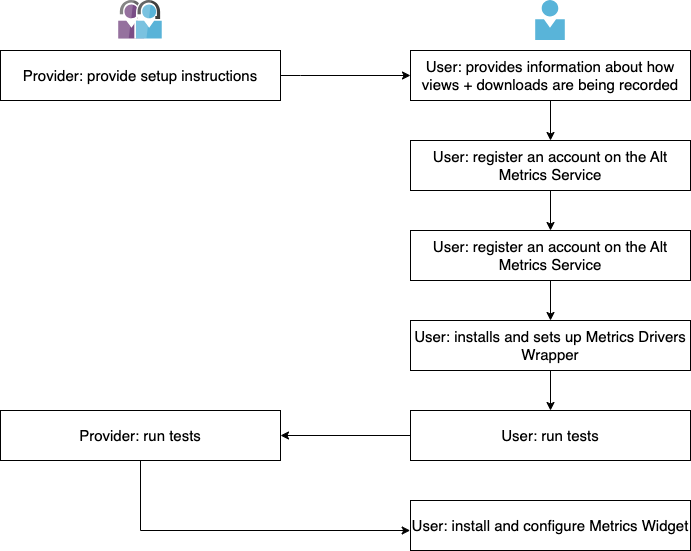
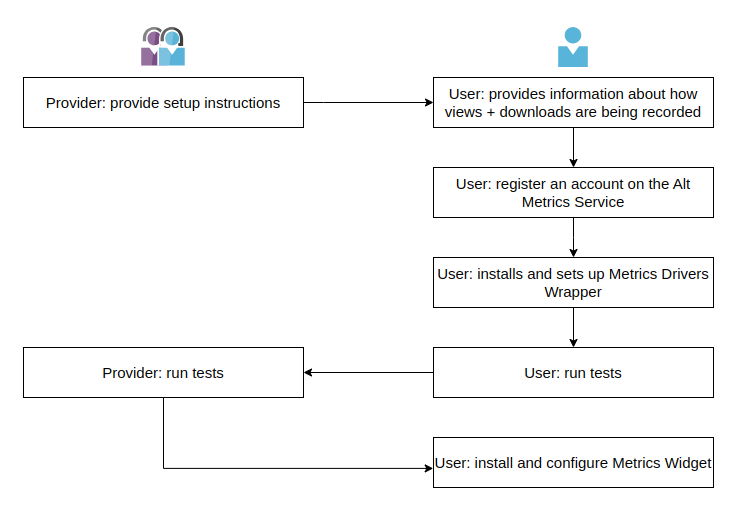
Resolved the emails and the user-onboarding image

diff --git a/site/metrics-docs/metrics-api.en-GB/index.html b/site/metrics-docs/metrics-api.en-GB/index.html
@@ -1175,7 +1175,7 @@
 <td>start_date</td>
 <td>query</td>
 <td>string</td>
-<td>yes</td>
+<td>no</td>
 <td>ISO 8601 format (YYYY-MM-DD) as a starting date to retrieve the events from.</td>
 </tr>
 <tr>
@@ -1183,7 +1183,7 @@
 <td>query</td>
 <td>string</td>
 <td>no</td>
-<td>ISO 8601 format (YYYY-MM-DD) as a end date to retrieve the events from.</td>
+<td>ISO 8601 format (YYYY-MM-DD) as a end date to retrieve the events until.</td>
 </tr>
 </tbody>
 </table>
@@ -1428,13 +1428,13 @@
 <li>Body Parameters</li>
 </ul>
 <pre><code class="language-json">{
-    &quot;work_uri&quot;: &quot;http://example.com/work/2&quot;,
+    &quot;work_uri&quot;: &quot;info:doi:10.5334/bcd&quot;,
     &quot;measure_uri&quot;: &quot;http://example.com/measure/2&quot;,
     &quot;timestamp&quot;: &quot;2023-10-01T12:00:00+0000&quot;,
     &quot;value&quot;: 100,
     &quot;event_uri&quot;: &quot;http://example.com/event/2&quot;,
-    &quot;country_uri&quot;: &quot;http://example.com/country/2&quot;,
-    &quot;uploader_uri&quot;: &quot;http://example.com/uploader/2&quot;
+    &quot;country_uri&quot;: &quot;urn:iso:std:3166:-2:US&quot;,
+    &quot;uploader_uri&quot;: &quot;acct:tech@ubiquitypress.com&quot;
 }
 </code></pre>
 <blockquote>
@@ -1447,13 +1447,13 @@
     &quot;data&quot;: [
         {
             &quot;event_id&quot;: &quot;22bfe31d-0374-45d6-9e6a-f8285b2bc25e&quot;,
-            &quot;work_uri&quot;: &quot;tag:ubiquitypress.com,2024|press|book:up-p-testing-300&quot;,
+            &quot;work_uri&quot;: &quot;info:doi:10.1242/dev.164269&quot;,
             &quot;measure_uri&quot;: &quot;https://metrics.operas-eu.org/world-reader/users/v1&quot;,
             &quot;timestamp&quot;: &quot;2024-01-01T00:00:00+0000&quot;,
             &quot;value&quot;: 100,
             &quot;event_uri&quot;: &quot;event_uri_1&quot;,
             &quot;country_uri&quot;: &quot;urn:iso:std:3166:-2:ZW&quot;,
-            &quot;uploader_uri&quot;: &quot;uploader_uri_1&quot;
+            &quot;uploader_uri&quot;: &quot;acct:tech@ubiquitypress.com&quot;
         }
     ]
 }

diff --git a/site/metrics-docs/onboarding-users.en-GB/index.html b/site/metrics-docs/onboarding-users.en-GB/index.html
@@ -1168,7 +1168,7 @@
 <li>User installs and configures the <a href="https://metrics.operas-eu.org/metrics-docs/widget.en-GB" title="Widget">metrics widget</a>.</li>
 <li>User arranges a schedule for manually refreshing metrics.</li>
 <li>Be prepared to make software updates at the Provider’s request (for performance, quality, or security improvements, or to extend the functionality)</li>
-<li>Please contact [Rowan Hatherley][21] or [Cristian Garcia][24] for any enquiries or issues.</li>
+<li>Please contact <a href="mailto:rowan.hatherley@ubiquitypress.com" title="Rowan Hatherley email address">Rowan Hatherley</a> or <a href="mailto:cristian.garcia@ubiquitypress.com" title="Cristian Garcia email address">Cristian Garcia</a> for any enquiries or issues.</li>
 </ol>
 <h2 id="process-diagram-for-onboarding-user">Process diagram for onboarding user</h2>
 <p><img alt="Process Diagram" src="/images/user-onboarding.png" /></p>

diff --git a/docs/metrics-docs/onboarding-users.en-GB.md b/docs/metrics-docs/onboarding-users.en-GB.md
@@ -94,7 +94,7 @@ Follow the steps in this section to onboard your metrics to the OPERAS metrics s
 6. User installs and configures the [metrics widget][8].
 7. User arranges a schedule for manually refreshing metrics.
 8. Be prepared to make software updates at the Provider’s request (for performance, quality, or security improvements, or to extend the functionality)
-9. Please contact [Rowan Hatherley][21] or [Cristian Garcia][24] for any enquiries or issues.
+9. Please contact [Rowan Hatherley][10] or [Cristian Garcia][9] for any enquiries or issues.
 
 ## Process diagram for onboarding user
 ![Process Diagram](/images/user-onboarding.png)
@@ -119,3 +119,4 @@ Once the system is working as expected to add the new metrics to the OPERAS syst
 [13]: https://gitlab.com/ubiquitypress/identifier_translation_service "Identifier Translator service repo"
 [14]: https://gitlab.com/ubiquitypress/metrics-drivers-wrapper "Metrics Driver Wrapper repo"
 [15]: https://gitlab.com/ubiquitypress/metrics-drivers-wrapper/-/blob/master/src/yaml/demo-access_logs.yaml?ref_type=heads "Access Logs yaml"
+
